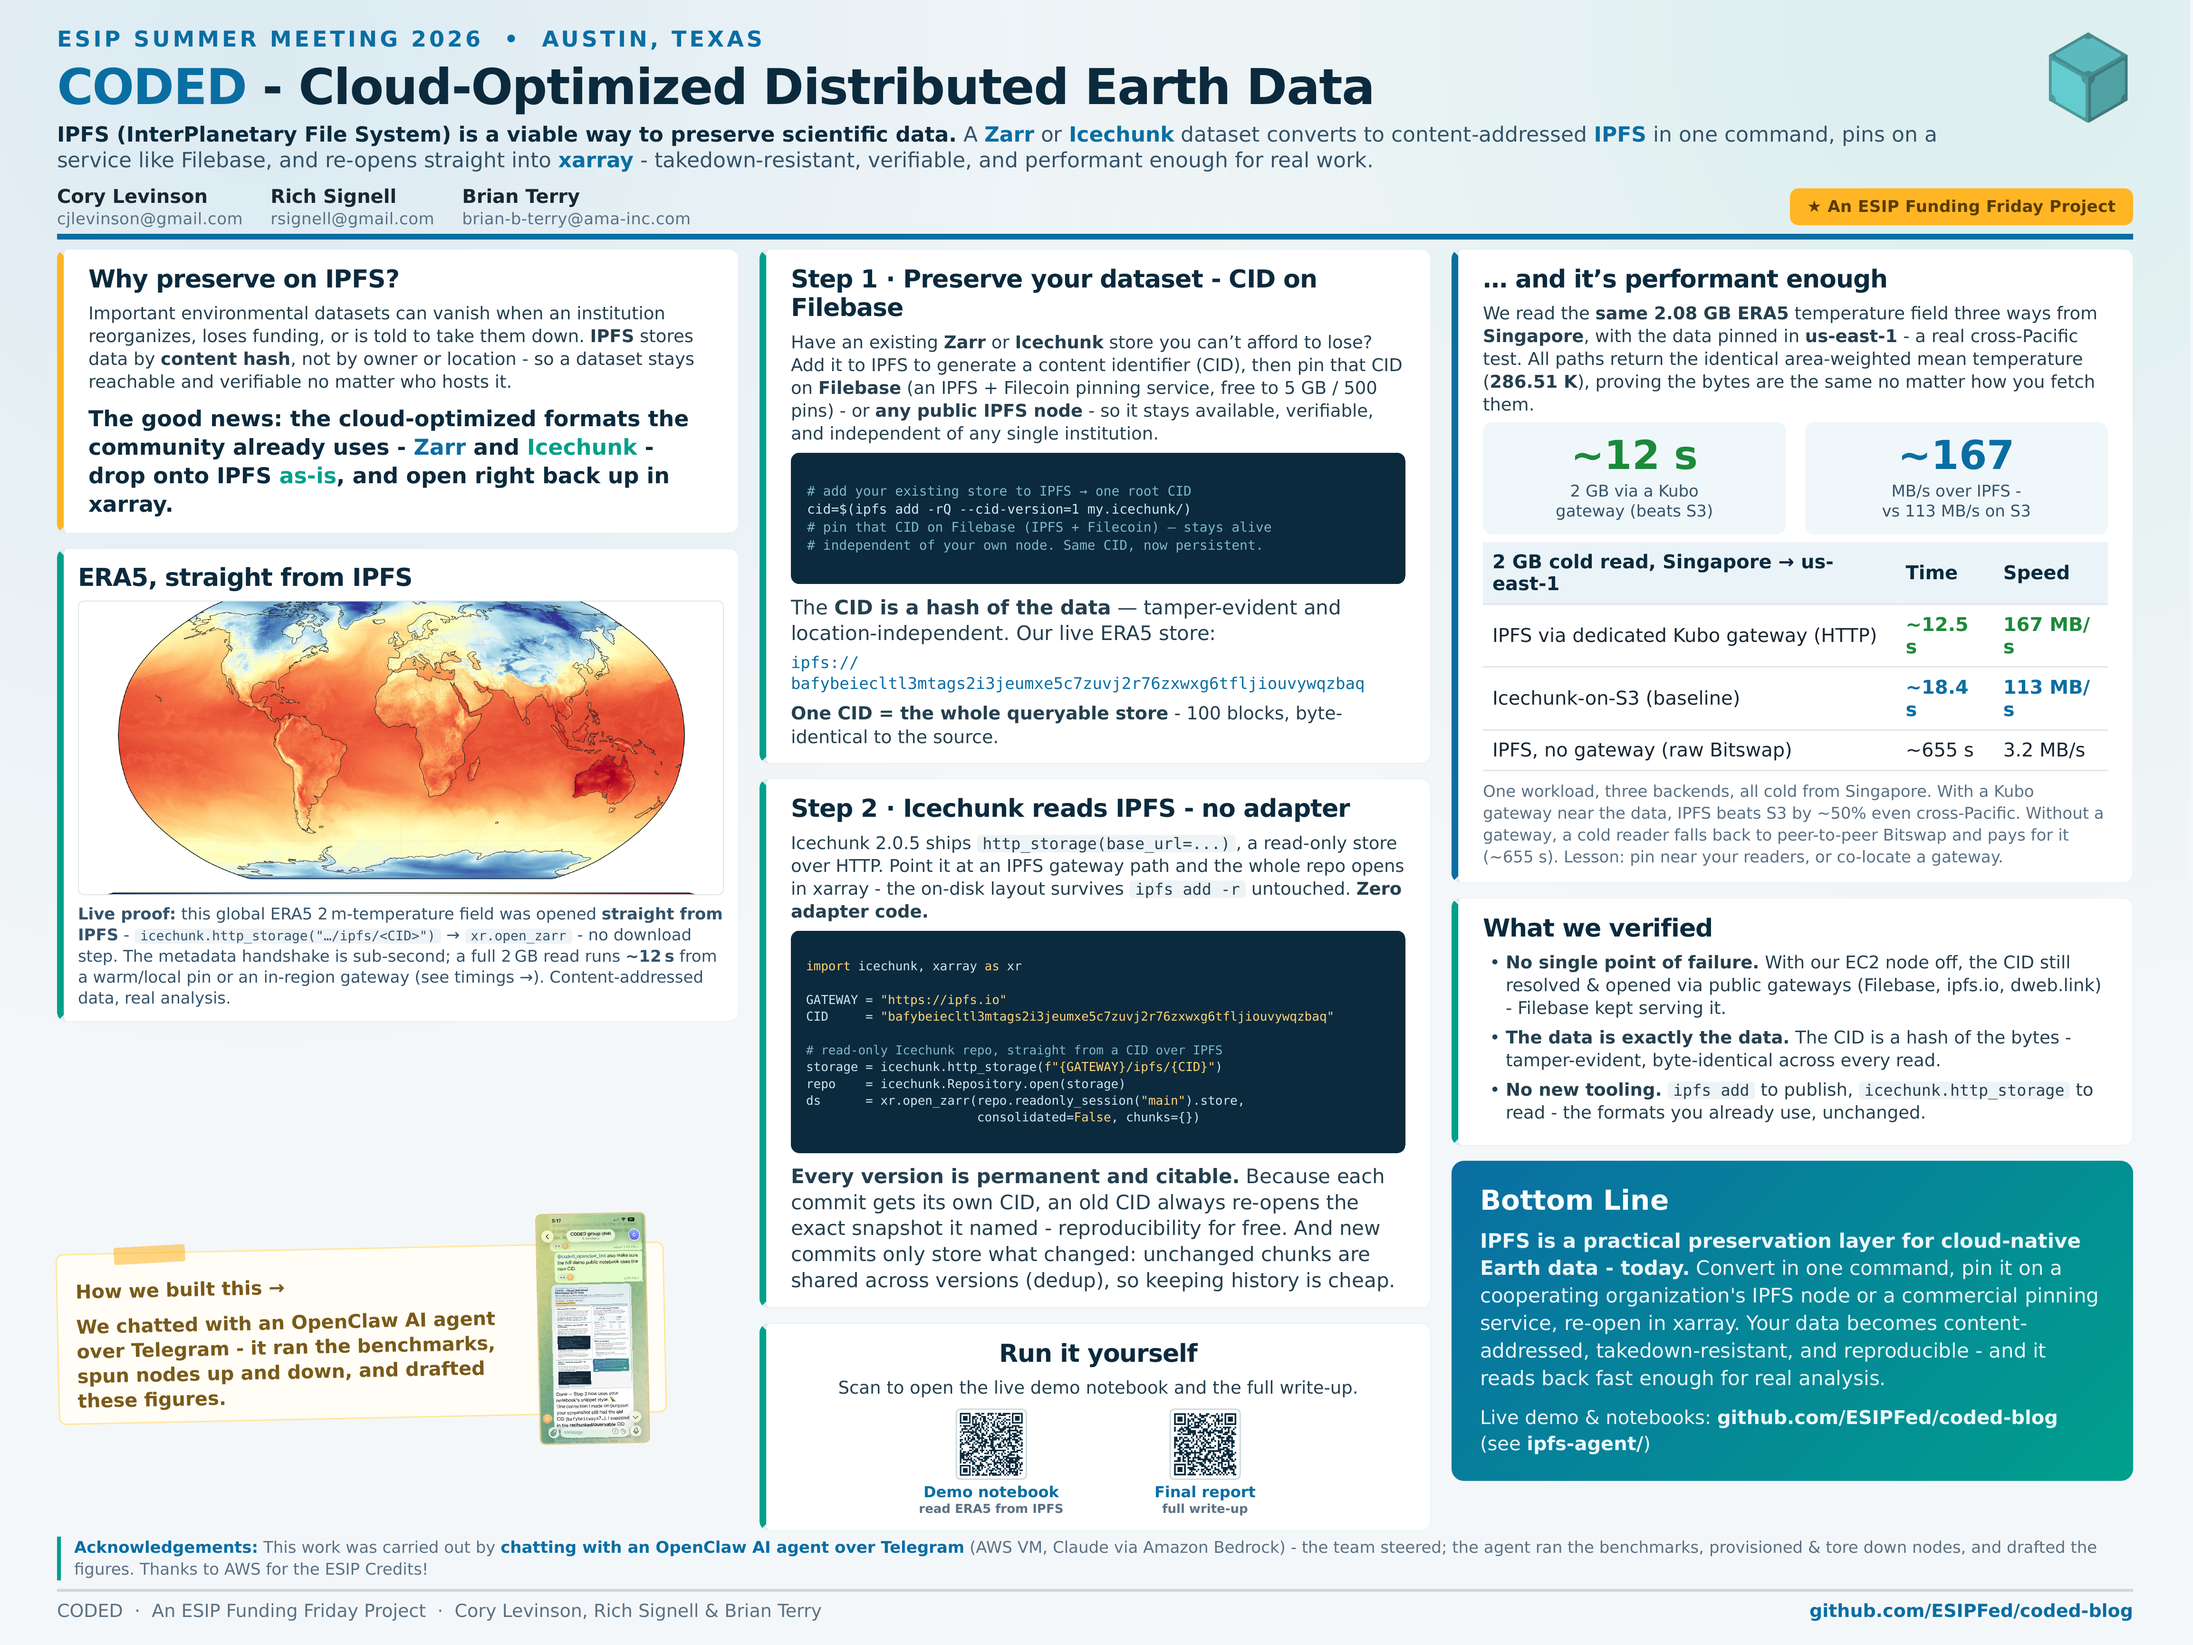
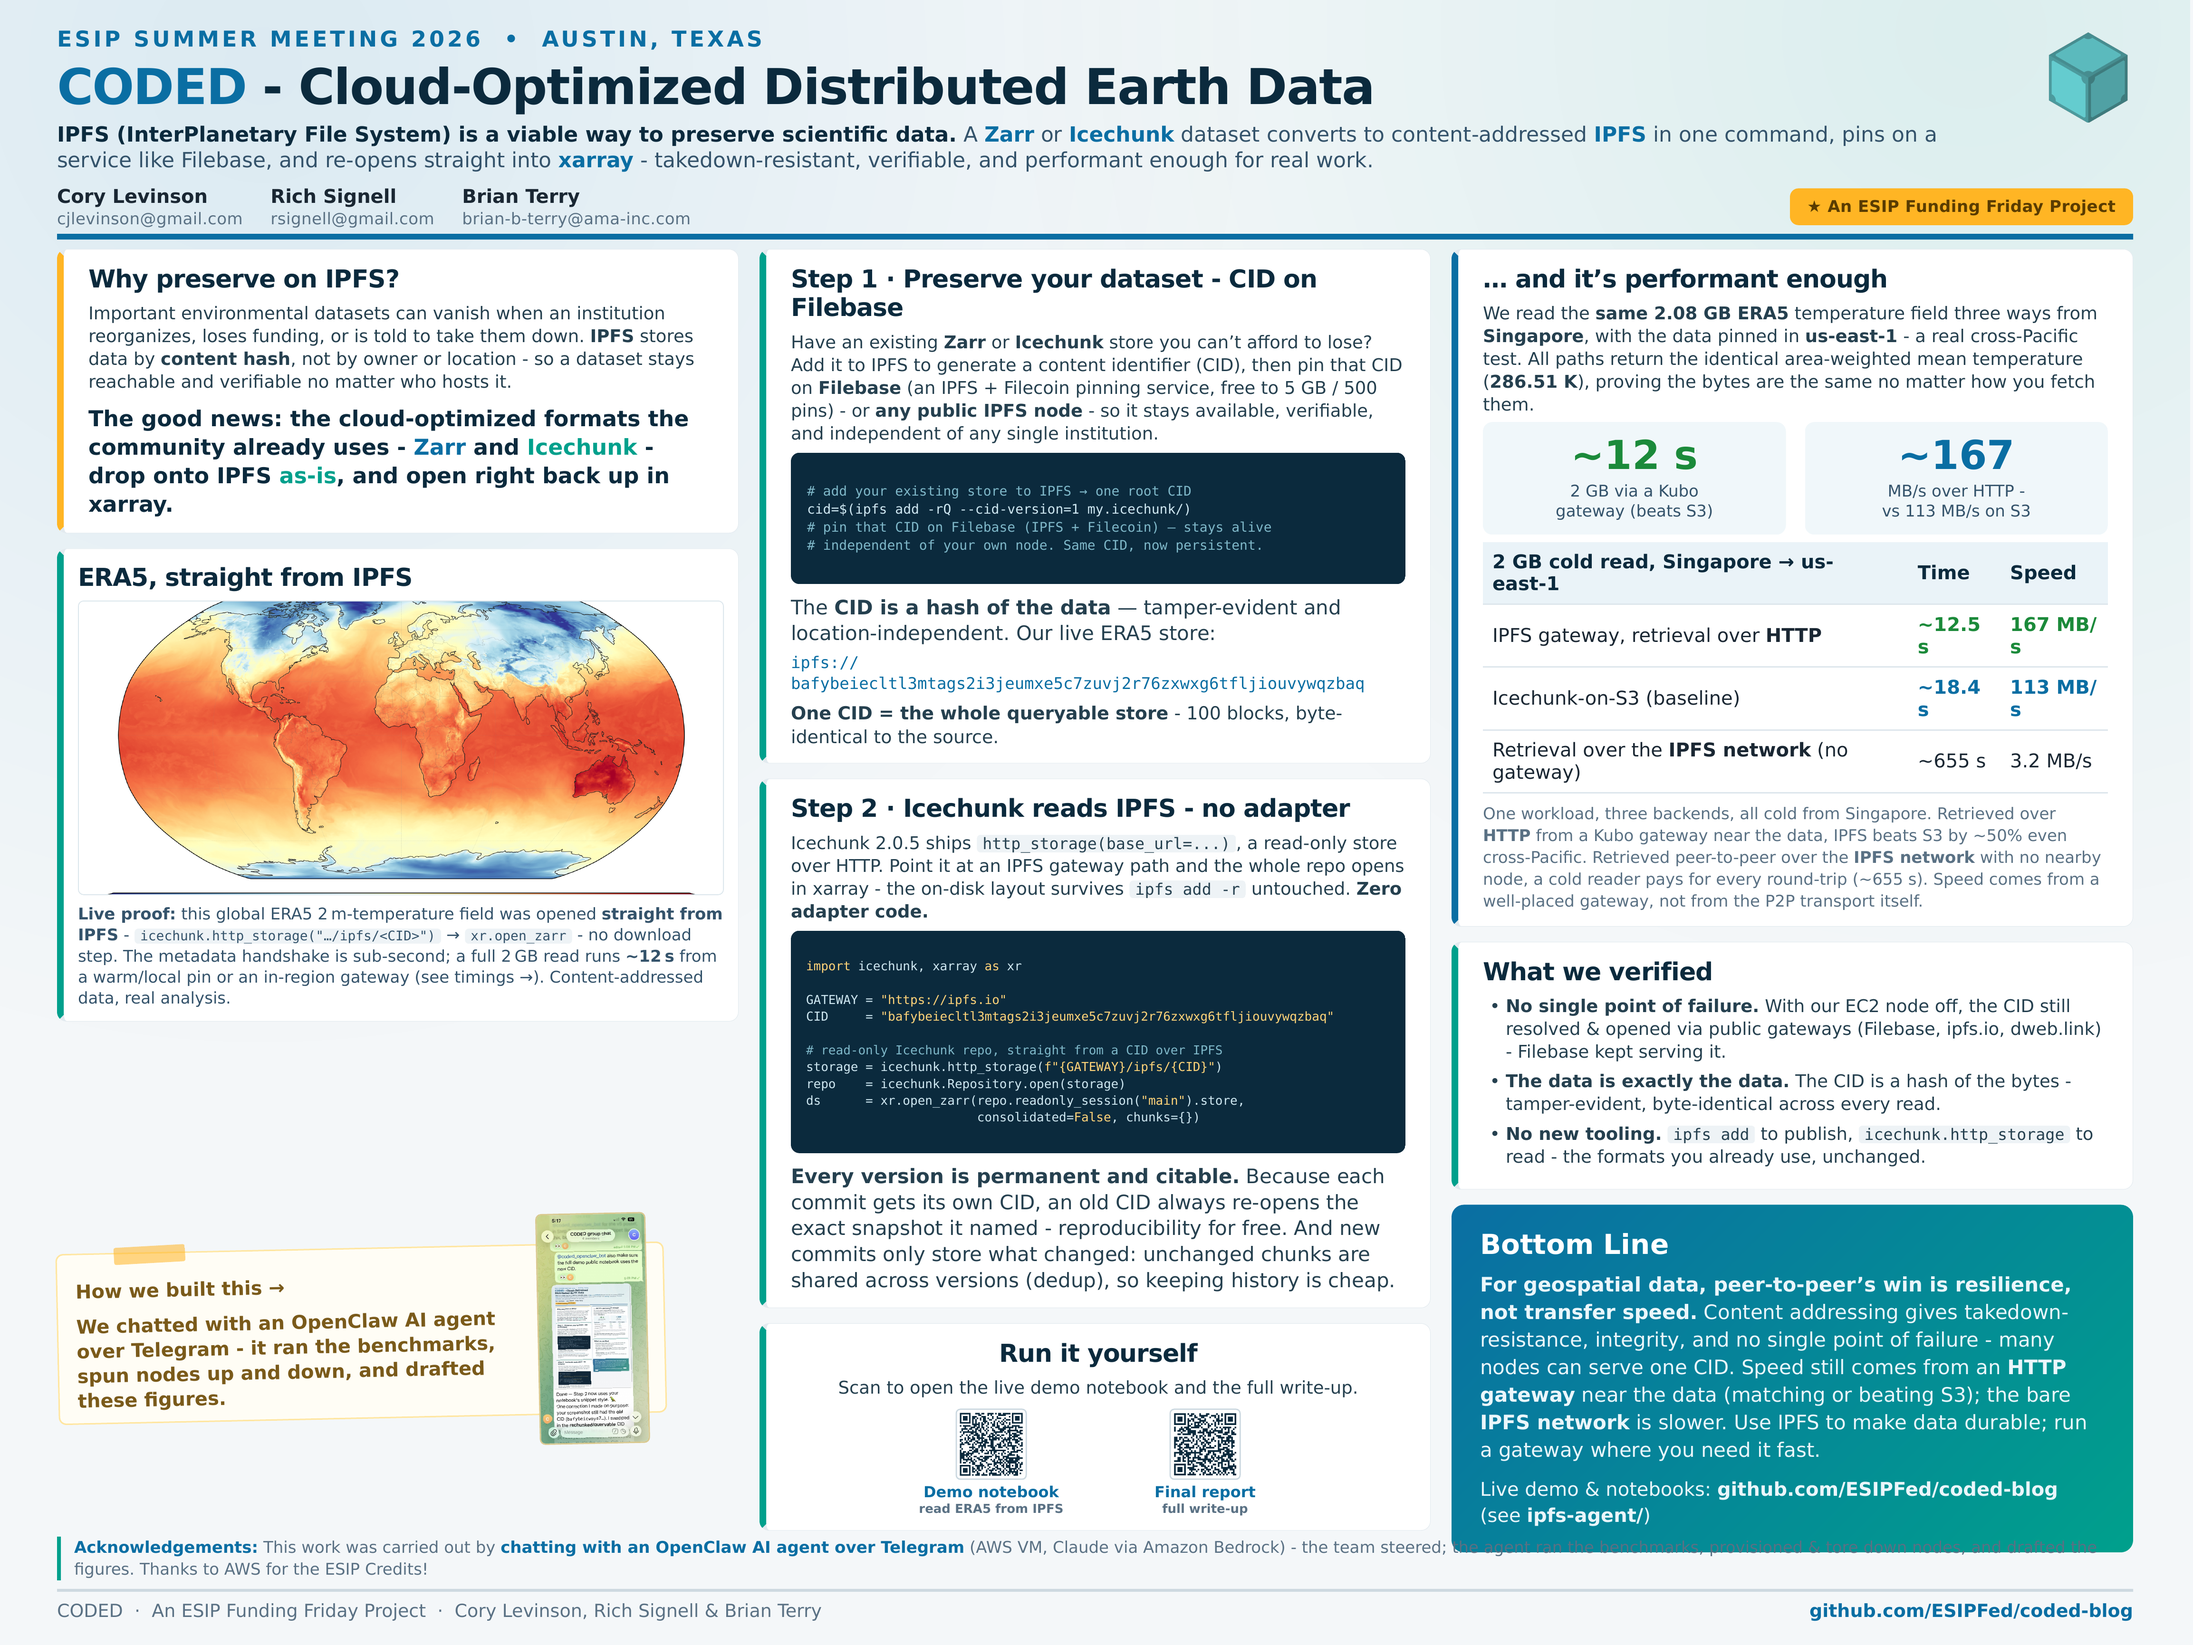
poster v7: resilience-not-speed takeaway; relabel transport as HTTP vs IPFS-network retrieval

Changed region(s): [[0.6554, 0.3432, 0.9987, 0.9671], [0.7178, 0.3744, 0.8427, 0.4055], [0.8739, 0.2808, 0.9051, 0.312]]

diff --git a/ipfs-agent/posters/esip_ipfs_poster_v7_landscape.html b/ipfs-agent/posters/esip_ipfs_poster_v7_landscape.html
@@ -341,18 +341,18 @@ ds      = xr.open_zarr(repo.readonly_session(<span class="kw">"main"</span>).sto
         <p class="lead">We read the <b>same 2.08&nbsp;GB ERA5</b> temperature field three ways from <b>Singapore</b>, with the data pinned in <b>us-east-1</b> - a real cross-Pacific test. All paths return the identical area-weighted mean temperature (<b>286.51&nbsp;K</b>), proving the bytes are the same no matter how you fetch them.</p>
         <div class="bignum">
           <div class="stat green"><div class="n">~12 s</div><div class="l">2&nbsp;GB via a Kubo<br>gateway (beats S3)</div></div>
-          <div class="stat"><div class="n">~167</div><div class="l">MB/s over IPFS -<br>vs 113 MB/s on S3</div></div>
+          <div class="stat"><div class="n">~167</div><div class="l">MB/s over HTTP -<br>vs 113 MB/s on S3</div></div>
         </div>
         <table>
           <thead>
             <tr><th>2&nbsp;GB cold read, Singapore &rarr; us-east-1</th><th>Time</th><th>Speed</th></tr>
           </thead>
           <tbody>
-            <tr><td>IPFS via dedicated Kubo gateway (HTTP)</td><td class="win">~12.5 s</td><td class="win">167 MB/s</td></tr>
+            <tr><td>IPFS gateway, retrieval over <b>HTTP</b></td><td class="win">~12.5 s</td><td class="win">167 MB/s</td></tr>
             <tr><td>Icechunk-on-S3 (baseline)</td><td class="s3">~18.4 s</td><td class="s3">113 MB/s</td></tr>
-            <tr><td>IPFS, no gateway (raw Bitswap)</td><td>~655 s</td><td>3.2 MB/s</td></tr>
+            <tr><td>Retrieval over the <b>IPFS network</b> (no gateway)</td><td>~655 s</td><td>3.2 MB/s</td></tr>
           </tbody>
-          <caption>One workload, three backends, all cold from Singapore. With a Kubo gateway near the data, IPFS beats S3 by ~50% even cross-Pacific. Without a gateway, a cold reader falls back to peer-to-peer Bitswap and pays for it (~655 s). Lesson: pin near your readers, or co-locate a gateway.</caption>
+          <caption>One workload, three backends, all cold from Singapore. Retrieved over <b>HTTP</b> from a Kubo gateway near the data, IPFS beats S3 by ~50% even cross-Pacific. Retrieved peer-to-peer over the <b>IPFS network</b> with no nearby node, a cold reader pays for every round-trip (~655 s). Speed comes from a well-placed gateway, not from the P2P transport itself.</caption>
         </table>
       </div>
 
@@ -367,7 +367,7 @@ ds      = xr.open_zarr(repo.readonly_session(<span class="kw">"main"</span>).sto
 
       <div class="takeaway">
         <h2>Bottom Line</h2>
-        <p><b>IPFS is a practical preservation layer for cloud-native Earth data - today.</b> Convert in one command, pin it on a cooperating organization's IPFS node or a commercial pinning service, re-open in xarray. Your data becomes content-addressed, takedown-resistant, and reproducible - and it reads back fast enough for real analysis.</p>
+        <p><b>For geospatial data, peer-to-peer&rsquo;s win is resilience, not transfer speed.</b> Content addressing gives takedown-resistance, integrity, and no single point of failure - many nodes can serve one CID. Speed still comes from an <b>HTTP gateway</b> near the data (matching or beating S3); the bare <b>IPFS network</b> is slower. Use IPFS to make data <i>durable</i>; run a gateway where you need it <i>fast</i>.</p>
         <p style="font-size:40px;">Live demo &amp; notebooks: <b>github.com/ESIPFed/coded-blog</b> (see <b>ipfs-agent/</b>)</p>
       </div>
 
